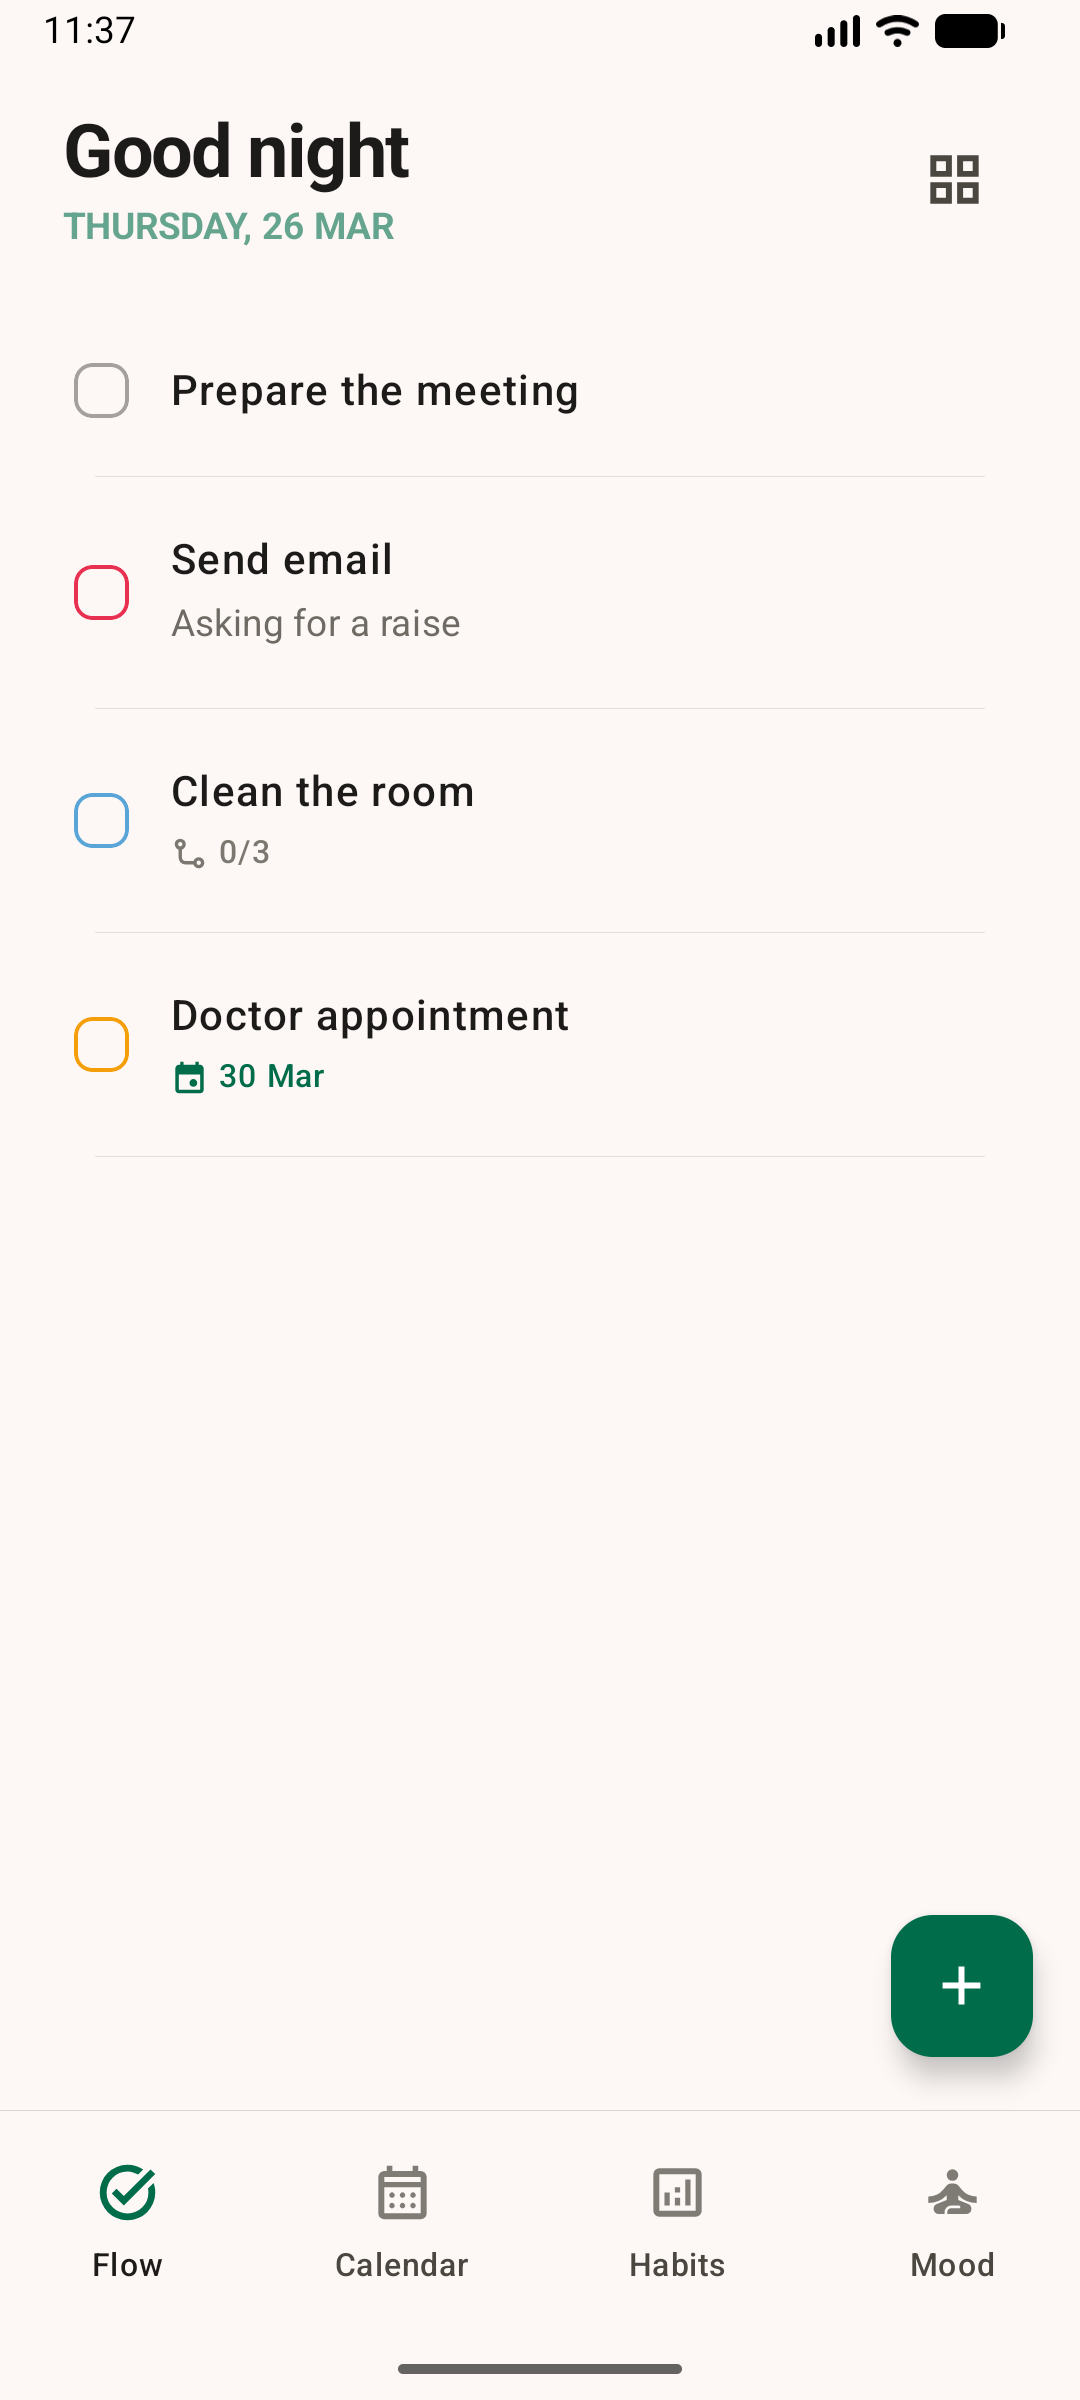
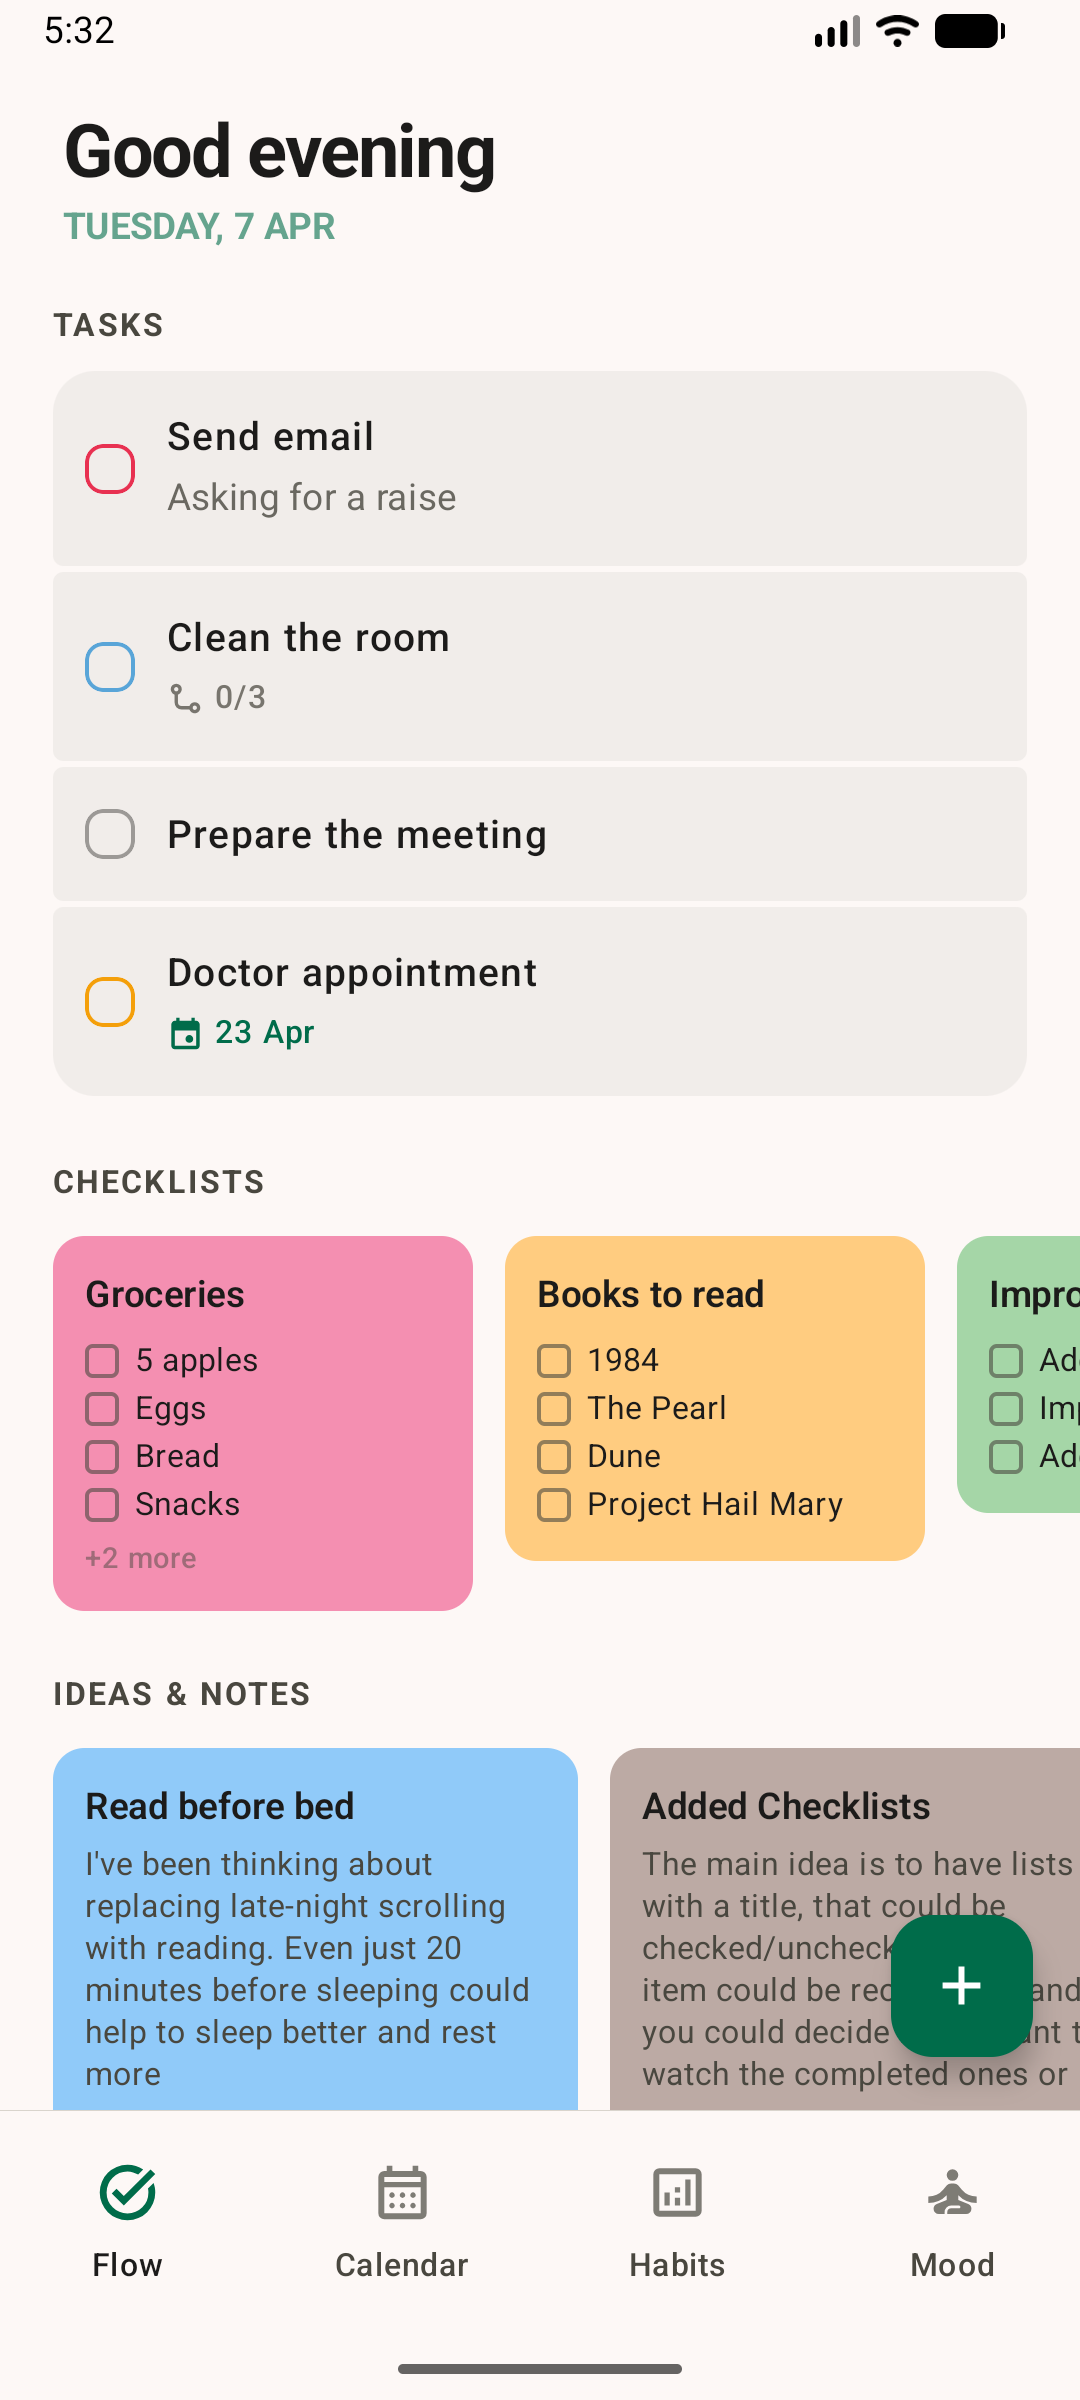
docs: update screenshots
Update the screenshot of the new unified view of lists in the home screen.

diff --git a/README.md b/README.md
@@ -14,7 +14,7 @@
 
 <div align="center">
   <img src="screenshots/home_light.png" width="31%" />
-  <img src="screenshots/grid_light.png" width="31%" />
+  <img src="screenshots/checklist_light.png" width="31%" />
   <img src="screenshots/calendar_light.png" width="31%" />
   <br>
   <img src="screenshots/habits_prev.png" width="31%" />
